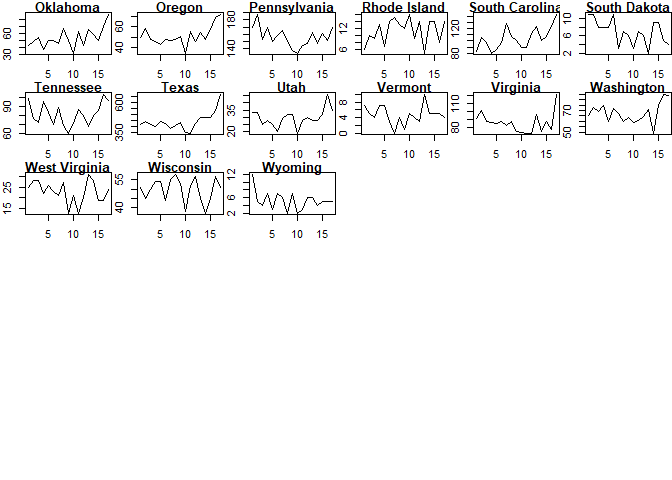
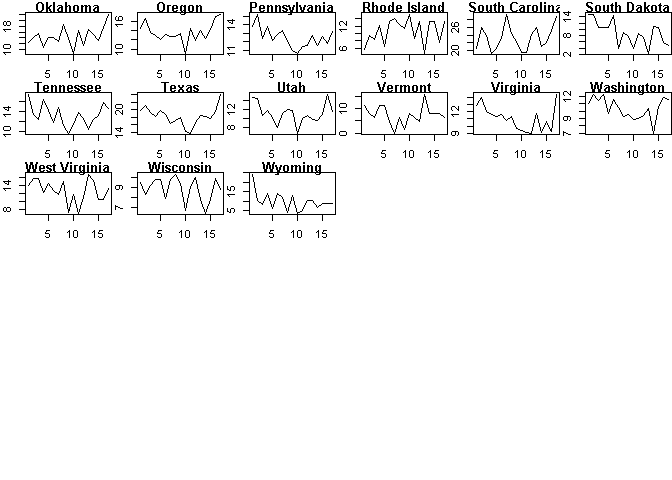
Add files via upload

diff --git a/TimeSeriesStates.md b/TimeSeriesStates.md
@@ -1,16 +1,25 @@
 ---
-title: "Post Test"
+title: "Post 2 Clustering"
 output: 
   html_document:
     keep_md: true
 ---
+## Data
+This exercise utilises data from the 50 states of the United States and the District of Columbia. The dataset contains car crash counts from the year 2000 to the year 2016, and corresponding yearly population numbers. As such the crash rate (crash count per million poulation) numbers have been computed and included as a stadardised measure in the data. 
 
 
 
 ```r
 library(foreign)
-state_full <- read.csv("state_full_edit.csv", row.names = 1)
-states <- as.matrix(state_full[,1:17])
+```
+
+```
+## Warning: package 'foreign' was built under R version 3.4.4
+```
+
+```r
+state_full <- read.csv("state_full_edit.csv", row.names = 1) #adding the data to R
+states <- as.matrix(state_full[,68:84]) #select the crash rate data for the time series clustering
 
 par(mfrow=c(6,6))
 par(mar=c(2,2,1,0))
@@ -54,6 +63,12 @@ library(TSclust)
 ## Warning: package 'TSclust' was built under R version 3.4.4
 ```
 
+## Correlation
+
+Correlation is a good option when considering the degree of similarity between time series. 
+Since this is a measure of dissimilarity, the range of correlation has been shifted from [-1,1] to [0,2].
+
+
 
 ```r
 D1 <- diss(states, "COR")
@@ -62,7 +77,7 @@ summary(D1)
 
 ```
 ##    Min. 1st Qu.  Median    Mean 3rd Qu.    Max. 
-##  0.5584  1.0734  1.2595  1.2385  1.4054  1.7966
+##  0.6096  1.0716  1.2460  1.2348  1.4002  1.8108
 ```
 
 ```r
@@ -79,13 +94,13 @@ head(melted_cormat)
 ```
 
 ```
-##         Var1    Var2     value
-## 1    Alabama Alabama 0.0000000
-## 2     Alaska Alabama 1.0578086
-## 3    Arizona Alabama 1.0206734
-## 4   Arkansas Alabama 1.3481277
-## 5 California Alabama 0.8954261
-## 6   Colorado Alabama 1.1064492
+##         Var1    Var2    value
+## 1    Alabama Alabama 0.000000
+## 2     Alaska Alabama 1.130464
+## 3    Arizona Alabama 1.307207
+## 4   Arkansas Alabama 1.509972
+## 5 California Alabama 1.112689
+## 6   Colorado Alabama 1.259293
 ```
 
 ```r
@@ -102,13 +117,15 @@ ggplot(data = melted_cormat, aes(x=Var1, y=Var2, fill=value)) +
 ```
 
 ![](TimeSeriesStates_files/figure-html/unnamed-chunk-3-1.png)<!-- -->
-## Correlation
 
-Correlation is an obvious option when considering the degree of similarity between time series. Generating a dissimilarity matrix is simple.
+```r
+library(ggplot2)
+ggplot(data = melted_cormat, aes(x=Var1, y=Var2, fill=value)) + 
+  geom_tile()+scale_fill_gradient(low="red", high="blue")
+```
 
-Note that, since this is a measure of dissimilarity, the range of correlation has been shifted from [-1,1] to [0,2].
+![](TimeSeriesStates_files/figure-html/unnamed-chunk-3-2.png)<!-- -->
 
-Which stocks present the most unique time series?
 
 
 ```r
@@ -116,51 +133,156 @@ sort(rowMeans(as.matrix(D1)))
 ```
 
 ```
-##           California                Texas               Oregon 
-##             1.041069             1.044466             1.077511 
-##               Kansas              Georgia             Missouri 
-##             1.081472             1.092732             1.095058 
-##             Virginia           Washington                 Ohio 
-##             1.099347             1.104251             1.108629 
-##               Nevada              Alabama              Florida 
-##             1.113183             1.115872             1.116230 
-##             Oklahoma           New Mexico       North Carolina 
-##             1.120586             1.142477             1.142737 
-##              Indiana             Kentucky             Colorado 
-##             1.142832             1.143087             1.143447 
-##             Michigan       South Carolina              Arizona 
-##             1.144615             1.153799             1.155066 
-##                Maine                 Utah         Pennsylvania 
-##             1.167469             1.170046             1.184262 
-##            Tennessee             Nebraska             Delaware 
-##             1.192865             1.193759             1.197084 
-##            Louisiana          Connecticut               Alaska 
-##             1.198864             1.203413             1.222382 
-##        Massachusetts               Hawaii            Minnesota 
-##             1.234745             1.236954             1.243114 
-##           New Jersey             Illinois        New Hampshire 
-##             1.254036             1.255605             1.256152 
-##        West Virginia          Mississippi                Idaho 
-##             1.275165             1.291359             1.295969 
-##                 Iowa             Arkansas              Wyoming 
-##             1.308754             1.311796             1.322837 
-##            Wisconsin              Vermont         North Dakota 
-##             1.326415             1.336829             1.343009 
-##             New York         South Dakota              Montana 
-##             1.361321             1.395904             1.415993 
-## District of Columbia         Rhode Island             Maryland 
-##             1.418500             1.432278             1.498458
+##           California                Texas             Missouri 
+##             1.031602             1.048472             1.061889 
+##             Virginia             Michigan           Washington 
+##             1.071774             1.088659             1.100849 
+##         Pennsylvania             Illinois              Georgia 
+##             1.101045             1.104747             1.106251 
+##             Colorado           New Mexico               Oregon 
+##             1.112992             1.113909             1.119828 
+##               Nevada               Kansas              Arizona 
+##             1.121670             1.126430             1.129488 
+##       North Carolina              Florida               Hawaii 
+##             1.130228             1.131961             1.156634 
+##             Nebraska                 Utah                Maine 
+##             1.169649             1.173741             1.176068 
+##                 Ohio            Tennessee             Kentucky 
+##             1.182581             1.184476             1.187551 
+##            Minnesota             Oklahoma               Alaska 
+##             1.190000             1.211159             1.212866 
+##        West Virginia              Alabama        Massachusetts 
+##             1.214040             1.214062             1.215868 
+##       South Carolina          Connecticut              Indiana 
+##             1.218364             1.231373             1.242461 
+##             New York            Louisiana              Wyoming 
+##             1.246042             1.249479             1.253759 
+##          Mississippi        New Hampshire           New Jersey 
+##             1.262398             1.273814             1.274504 
+##             Delaware            Wisconsin         South Dakota 
+##             1.285499             1.289132             1.289247 
+##                Idaho                 Iowa              Vermont 
+##             1.295099             1.300678             1.325001 
+## District of Columbia             Arkansas         North Dakota 
+##             1.352390             1.354711             1.417224 
+##              Montana             Maryland         Rhode Island 
+##             1.451033             1.457964             1.478915
 ```
 
-Now let's use those data to do some hierarchical clustering.
+##Clustering
+
+Clustering allows us to group similar data elements together.
+Since we computed the means of the crash rates we can use k-means clustering to group similar states
 
 
 ```r
-C1 <- hclust(D1)
-plot(C1)
+fit <- kmeans(states, 4)
+fit$center  # centers of each variable
 ```
 
-![](TimeSeriesStates_files/figure-html/unnamed-chunk-5-1.png)<!-- -->
+```
+##   crshcnt00per crshcnt01per crshcnt02per crshcnt03per crshcnt04per
+## 1     19.97506    19.173583     18.99363     18.70219     18.13238
+## 2     13.62501    13.254975     13.61241     12.91526     11.90178
+## 3     24.18533    27.228214     25.79072     24.39341     24.12954
+## 4     10.25916     8.564539      7.98363     10.20242      8.72432
+##   crshcnt05per crshcnt06per crshcnt07per crshcnt08per crshcnt09per
+## 1    20.303235    19.408157    19.145347     16.45236    16.667146
+## 2    12.166877    12.149316    12.803386     10.93843    10.209325
+## 3    25.397175    27.981436    24.020214     22.38333    19.461631
+## 4     8.499647     6.691679     7.797594      7.02581     6.489597
+##   crshcnt10per crshcnt11per crshcnt12per crshcnt13per crshcnt14per
+## 1    16.731663    15.759041    16.755147    16.593157    16.986528
+## 2    10.726813    11.325590    11.977484    12.180805    12.293461
+## 3    19.787846    21.064399    24.685657    23.282502    26.331833
+## 4     7.103498     7.385221     8.311363     7.254892     7.699492
+##   crshcnt15per crshcnt16per
+## 1    18.525592    19.408051
+## 2    13.450134    14.442946
+## 3    26.622092    29.406539
+## 4     8.470932     9.443583
+```
+
+```r
+fit$cluster # cluster ID for each observation
+```
+
+```
+##              Alabama               Alaska              Arizona 
+##                    1                    2                    3 
+##             Arkansas           California             Colorado 
+##                    2                    1                    2 
+##          Connecticut             Delaware District of Columbia 
+##                    2                    3                    1 
+##              Florida              Georgia               Hawaii 
+##                    3                    1                    1 
+##                Idaho             Illinois              Indiana 
+##                    4                    2                    2 
+##                 Iowa               Kansas             Kentucky 
+##                    4                    4                    2 
+##            Louisiana                Maine             Maryland 
+##                    3                    4                    1 
+##        Massachusetts             Michigan            Minnesota 
+##                    2                    2                    4 
+##          Mississippi             Missouri              Montana 
+##                    1                    2                    2 
+##             Nebraska               Nevada        New Hampshire 
+##                    4                    3                    4 
+##           New Jersey           New Mexico             New York 
+##                    1                    3                    1 
+##       North Carolina         North Dakota                 Ohio 
+##                    1                    4                    4 
+##             Oklahoma               Oregon         Pennsylvania 
+##                    2                    2                    2 
+##         Rhode Island       South Carolina         South Dakota 
+##                    2                    3                    4 
+##            Tennessee                Texas                 Utah 
+##                    2                    1                    2 
+##              Vermont             Virginia           Washington 
+##                    4                    2                    2 
+##        West Virginia            Wisconsin              Wyoming 
+##                    2                    4                    4
+```
+We can observe from the cluster means that cluster 3 has the largest mean crash rate values and cluster 4 has the lowest
+
+## Determining number of clusters with SSE
+
+To determine the appropriate number of clusters to use, we can apply sum of square errors and create a scree plot to determine which number of cluster will be best for us.
+
+```r
+# determining number of clusters with SSE
+SSEs <- rep(NA,10) # a vector to store SSEs for different k's
+SSEs[1] <- fit$totss # total SSE if no clustering is done
+for(k in 2:10){
+	fit <- kmeans(states, k)
+	SSEs[k] <- fit$tot.withinss
+}
+par(mar=c(4,4,1,1))
+#pdf("../LaTeX/figs/scree.pdf",width=5.5,height=4.25)
+plot(1:10,SSEs,type="b",xlab="Number of Clusters")
+```
+
+![](TimeSeriesStates_files/figure-html/unnamed-chunk-6-1.png)<!-- -->
+
+```r
+#dev.off()
+```
+Here we can see that 4 clusters is an appropriate number of clusters.
+
+##Heirarchical Clustering
+Another way to cluster data is by heirarchical clustering which produces a set of nested clusters organized as a hierarchical tree.
+
+
+```r
+C1 <- hclust(D1, method="ward.D")
+plot(C1) # display dendogram
+
+groups <- cutree(C1, k=4)
+# draw dendogram with red borders around the 3 clusters
+rect.hclust(C1, k=4, border="red")
+```
+
+![](TimeSeriesStates_files/figure-html/unnamed-chunk-7-1.png)<!-- -->
 
 ## Dynamic Time Warping Distance
 
@@ -169,18 +291,44 @@ Dynamic Time Warping is a technique for comparing time series where the timing o
 
 ```r
 D2 <- diss(states, "DTWARP")
+library(reshape2)
+melted_cormat2 <- melt(as.matrix(D2))
+head(melted_cormat2)
 ```
 
-Since the dissimilarity matrix is similar to one we've already looked at, we'll try a different approach to clustering, using the Partitioning Around Medoids (PAM) algorithm.
+```
+##         Var1    Var2     value
+## 1    Alabama Alabama   0.00000
+## 2     Alaska Alabama  76.22682
+## 3    Arizona Alabama 146.59600
+## 4   Arkansas Alabama  46.57576
+## 5 California Alabama  59.41169
+## 6   Colorado Alabama  67.98012
+```
+
+```r
+library(ggplot2)
+ggplot(data = melted_cormat2, aes(x=Var1, y=Var2, fill=value)) + 
+  geom_tile()+scale_fill_gradient(low="blue", high="red")
+```
+
+![](TimeSeriesStates_files/figure-html/unnamed-chunk-8-1.png)<!-- -->
+
+Since the dissimilarity matrix is similar to one we've already looked at, we see that the data range here is from 0 to 600 and the states with high values (red band) are Florida, New Mexico, South Carolina and Arizona
+
+
+##Partitioning Around Medoids (PAM) algorithm.
+PAM (Partitioning Around Medoids) is a classic algorithm for k-medoids clustering.
+The silhouette plot displays a measure of how close each point in one cluster is to points in the neighboring clusters and thus provides a way to assess parameters like number of clusters visually.
 
 
 ```r
 library(cluster)
-pam.result <- pam(D2, 5)
+pam.result <- pam(D2, 4)
 plot(pam.result)
 ```
 
-![](TimeSeriesStates_files/figure-html/unnamed-chunk-7-1.png)<!-- -->
+![](TimeSeriesStates_files/figure-html/unnamed-chunk-9-1.png)<!-- -->
 
 ## Integrated Periodogram Distance
 
@@ -189,17 +337,38 @@ The integrated Periodogram is a variation of the periodogram where the power is 
 
 ```r
 D3 <- diss(states, "INT.PER")
+library(reshape2)
+melted_cormat3 <- melt(as.matrix(D3))
+head(melted_cormat3)
 ```
 
-The dissimilarity matrix paints yet another picture of the data. 
+```
+##         Var1    Var2     value
+## 1    Alabama Alabama 0.0000000
+## 2     Alaska Alabama 1.5391805
+## 3    Arizona Alabama 0.9897779
+## 4   Arkansas Alabama 2.0760348
+## 5 California Alabama 1.7928340
+## 6   Colorado Alabama 1.1395469
+```
+
+```r
+library(ggplot2)
+ggplot(data = melted_cormat3, aes(x=Var1, y=Var2, fill=value)) + 
+  geom_tile()+scale_fill_gradient(low="blue", high="red")
+```
+
+![](TimeSeriesStates_files/figure-html/unnamed-chunk-10-1.png)<!-- -->
+
+This dissimilarity matrix paints yet another picture of the data. with a data value range of 0 to 5.  
 
 
 ```r
-pam.result2 <- pam(D3, 5)
+pam.result2 <- pam(D3, 4)
 plot(pam.result2)
 ```
 
-![](TimeSeriesStates_files/figure-html/unnamed-chunk-9-1.png)<!-- -->
+![](TimeSeriesStates_files/figure-html/unnamed-chunk-11-1.png)<!-- -->
 
 
 ```r
@@ -210,5 +379,6 @@ for(i in 1:nrow(states)){
 }
 ```
 
-![](TimeSeriesStates_files/figure-html/unnamed-chunk-10-1.png)<!-- -->![](TimeSeriesStates_files/figure-html/unnamed-chunk-10-2.png)<!-- -->
+![](TimeSeriesStates_files/figure-html/unnamed-chunk-12-1.png)<!-- -->![](TimeSeriesStates_files/figure-html/unnamed-chunk-12-2.png)<!-- -->
 
+the final output is a visualised set of graphs, of the clustered crash rates shown by colour and displayed by their trends.
